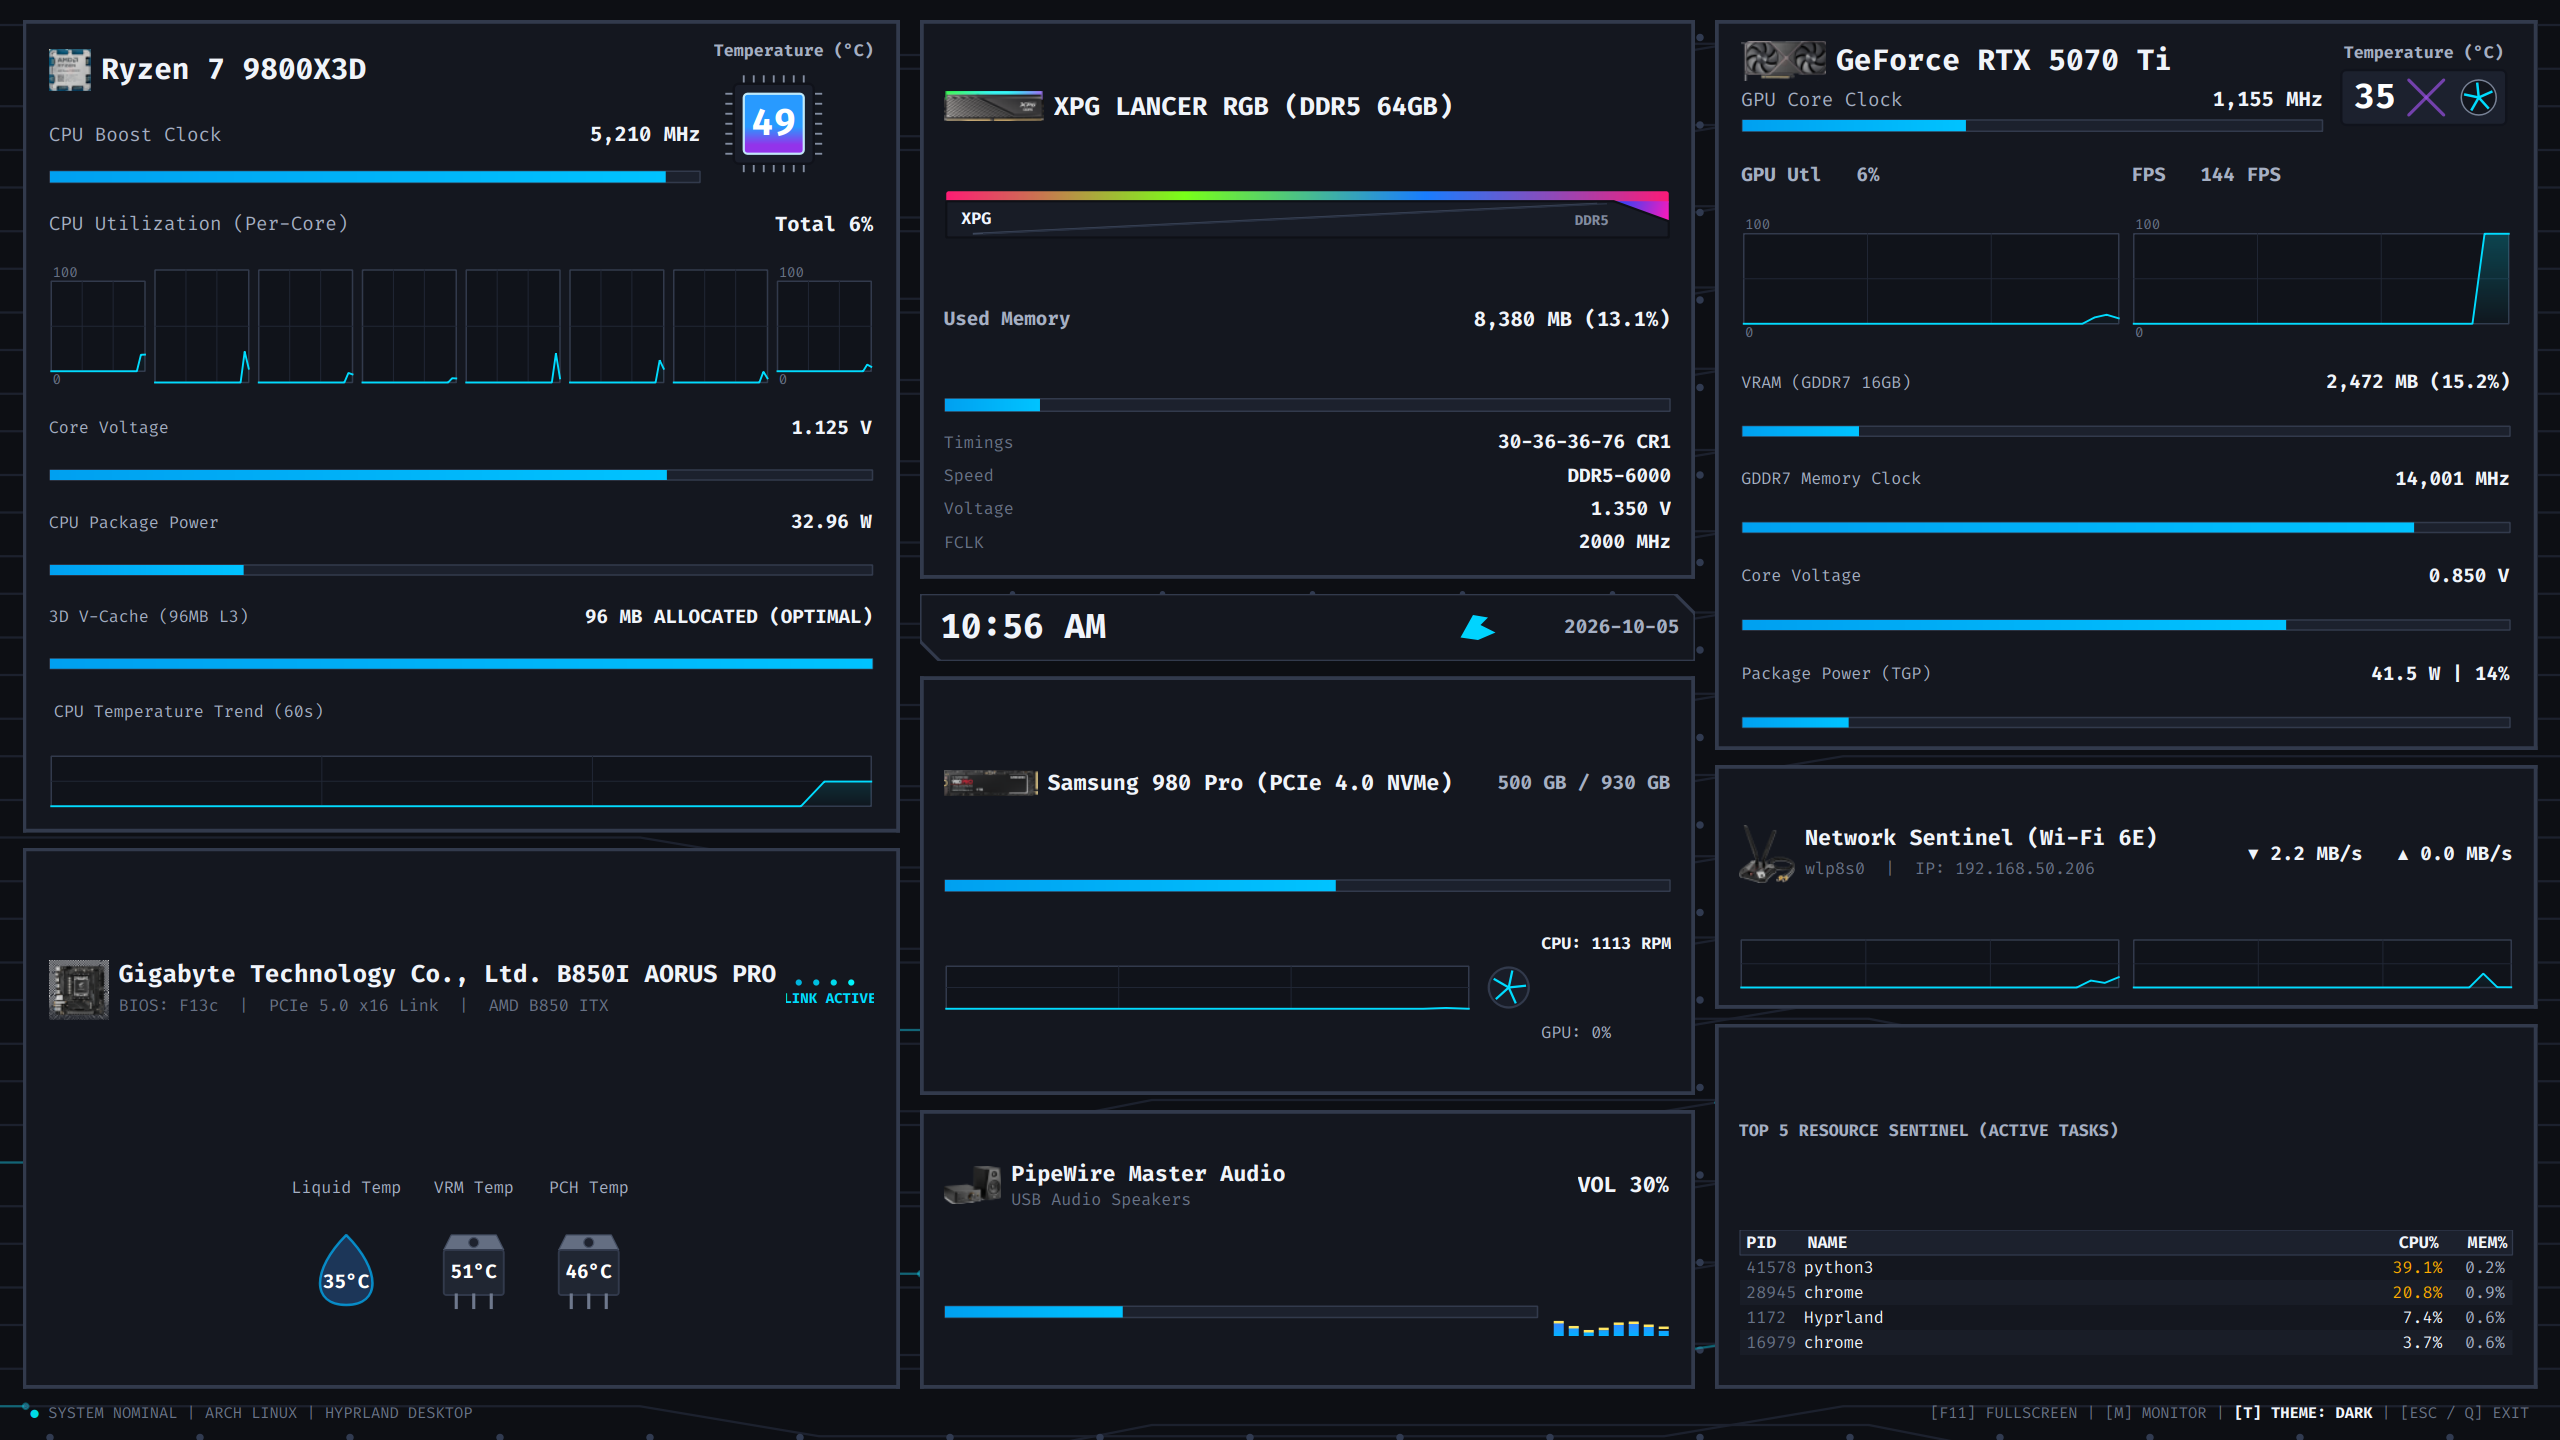
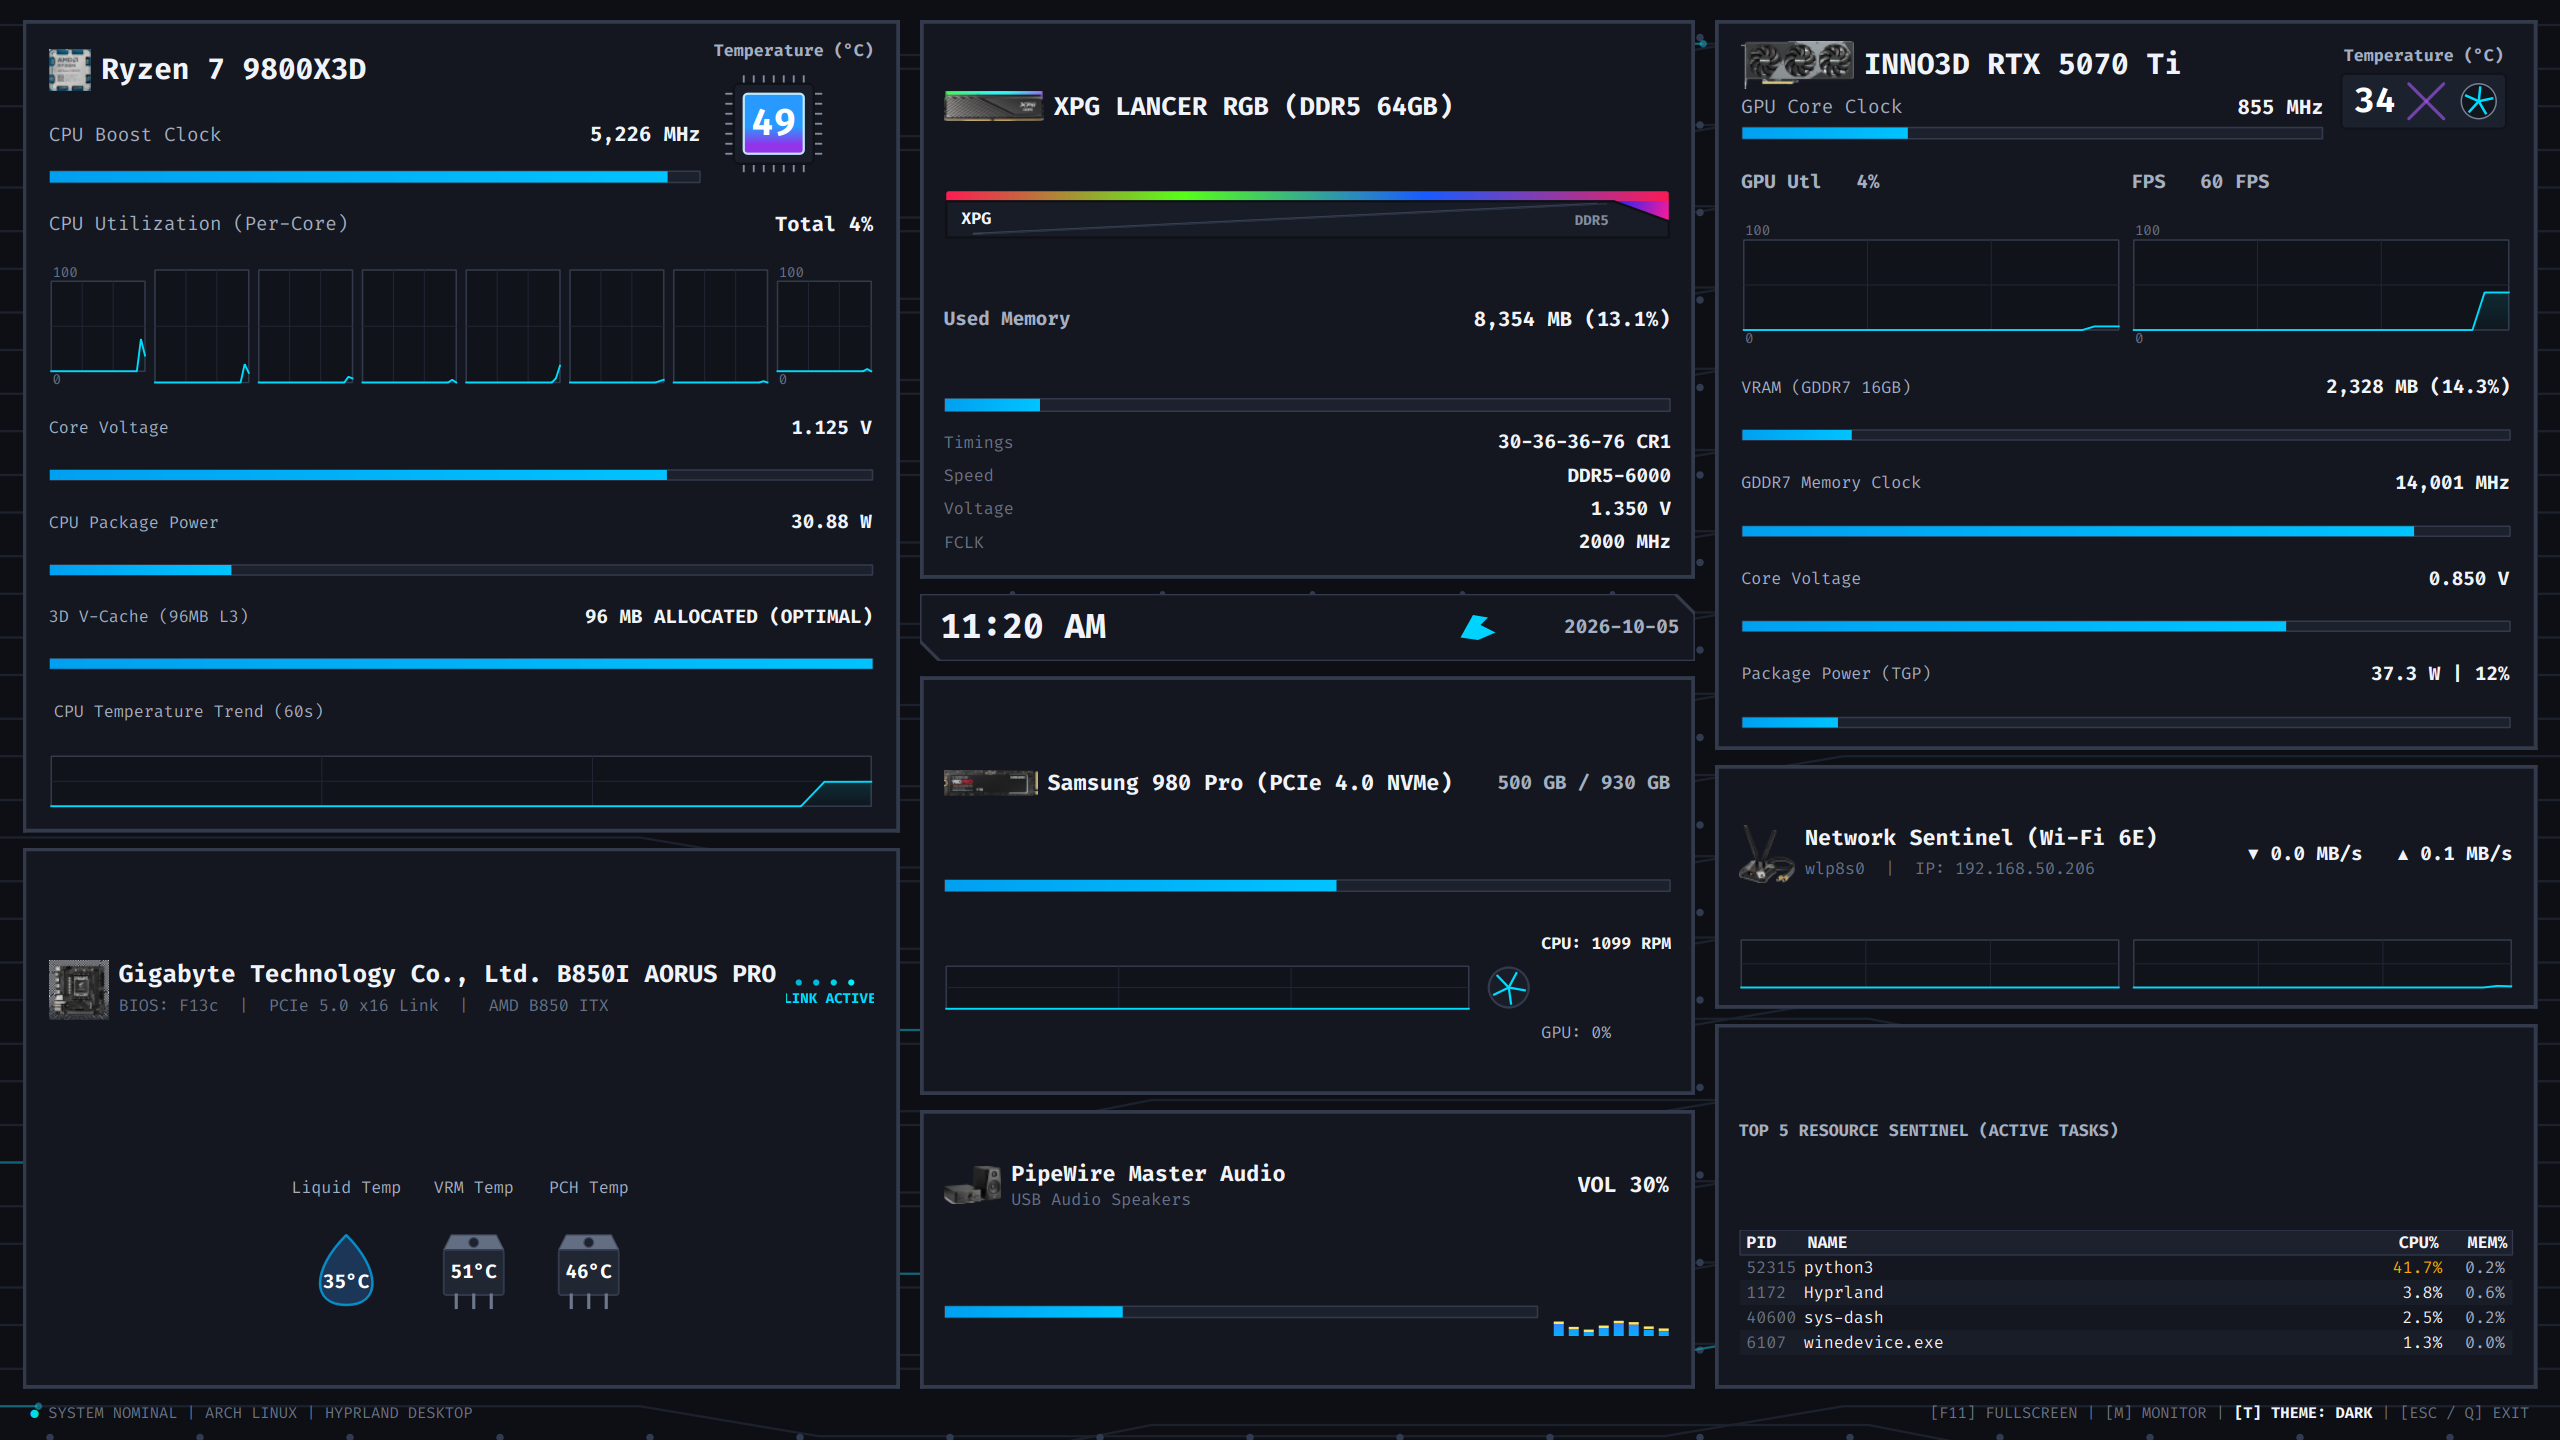
feat: GPU 실물 사진을 INNO3D GeForce RTX 5070 Ti X3 공식 제품 사진으로 변경 및 타이틀 최적화
- PCI 서브시스템(1771:205c) 기반 실제 장착 모델인 INNO3D RTX 5070 Ti X3 식별
- 정밀 투명 누끼 PNG 에셋 추출 및 92x38 고해상도 확대 적용
- GPU 패널 타이틀을 INNO3D RTX 5070 Ti로 브랜드 동기화
- 단일 바이너리(dist/sys-dash) 및 GEMINI.md 명세 동기화

diff --git a/widgets/pcb_gpu_section.py b/widgets/pcb_gpu_section.py
@@ -58,11 +58,11 @@ class PcbGpuSection(QWidget):
         gpu_photo_path = get_resource_path("assets/gpu_photo.png")
         if os.path.exists(gpu_photo_path):
             self.gpu_img_lbl = QLabel()
-            pix_gpu = QPixmap(gpu_photo_path).scaled(68, 32, Qt.AspectRatioMode.KeepAspectRatio, Qt.TransformationMode.SmoothTransformation)
+            pix_gpu = QPixmap(gpu_photo_path).scaled(92, 38, Qt.AspectRatioMode.KeepAspectRatio, Qt.TransformationMode.SmoothTransformation)
             self.gpu_img_lbl.setPixmap(pix_gpu)
             title_h.addWidget(self.gpu_img_lbl)
 
-        self.gpu_title_lbl = QLabel("GeForce RTX 5070 Ti")
+        self.gpu_title_lbl = QLabel("INNO3D RTX 5070 Ti")
         self.gpu_title_lbl.setFont(get_font_bold(17))
         title_h.addWidget(self.gpu_title_lbl)
         title_h.addStretch()

diff --git a/GEMINI.md b/GEMINI.md
@@ -8,7 +8,7 @@
 ## 1. 하드웨어 및 시스템 사양
 
 - **CPU**: AMD Ryzen 7 9800X3D (8-Core / 16-Thread, 부스트 최대 ~5.2GHz, 96MB 3D V-Cache)
-- **GPU**: NVIDIA GeForce RTX 5070 Ti 16GB GDDR7 (Blackwell GB203 아키텍처, 300W TGP)
+- **GPU**: INNO3D GeForce RTX 5070 Ti X3 16GB GDDR7 (Blackwell GB203 아키텍처, 300W TGP, 3팬 메탈릭 슈라우드)
 - **Motherboard**: GIGABYTE B850I AORUS PRO (AMD B850 칩셋 ITX, BIOS: F13c, PCIe 5.0 x16 Link)
 - **Audio System**: PipeWire Master Audio Engine / WirePlumber (`USB Audio Speakers`, 실시간 음량 바 & 대형 볼륨 수치 + 8밴드 점핑 VU 미터)
 - **RAM**: DDR5 64GB (ADATA XPG LANCER RGB 듀얼 채널, 실시간 오로라 무지개 웨이브)
@@ -47,7 +47,7 @@
 
 2. **실물 하드웨어 포토 배지 (확대 규격 인라인 에셋 7종)**:
    - **CPU**: `assets/cpu_photo.png` (9800X3D 정면 칩셋 투명 누끼, 34x34)
-   - **GPU**: `assets/gpu_photo.png` (RTX 5070 Ti 파운더스 카드 투명 누끼, 68x32)
+   - **GPU**: `assets/gpu_photo.png` (INNO3D RTX 5070 Ti X3 실물 트리플 팬 투명 누끼, **92x38 확대**)
    - **RAM**: `assets/ram_photo.png` (XPG LANCER RGB 방열판 투명 누끼, 80x24)
    - **SSD**: `assets/ssd_photo.png` (Samsung 980 Pro M.2 스틱 투명 누끼, 75x21)
    - **Motherboard**: `assets/mobo_photo.png` (GIGABYTE B850I AORUS PRO 실물 ITX 보드, **48x48 확대**)
@@ -86,7 +86,7 @@
 
 5. **GPU & 네트워크 섹션 (우측 컬럼)**:
    - **패널 1: GPU 전용 독립 패널 (`gpu_frame`)**:
-     - 실물 RTX 5070 Ti 사진 + `GeForce RTX 5070 Ti` 헤더 및 코어 클럭(최대 2550MHz) 바.
+     - 실물 INNO3D X3 사진 + `INNO3D RTX 5070 Ti` 헤더 및 코어 클럭(최대 2550MHz) 바.
      - **GPU Utl & FPS 듀얼 오실로스코프 그래프** (실시간 부하율 및 144Hz 프레임레이트).
      - 우측 상단 **그래픽카드 배지** (회전 쿨링 팬 + X자형 네온 RGB 브리딩 글로우 + 대형 흰색 온도 `36°C`).
      - `VRAM (GDDR7 16GB)`, `GDDR7 Memory Clock (14,001 MHz)`, `Core Voltage`, `Package Power (TGP 300W Cap)`.
@@ -123,7 +123,7 @@
 ├── .venv/                      # Python 가상환경
 ├── assets/                     # 실물 하드웨어 투명 누끼 PNG 사진 에셋 (7종)
 │   ├── cpu_photo.png           # AMD Ryzen 7 9800X3D 정면 실물 칩셋 (34x34)
-│   ├── gpu_photo.png           # NVIDIA GeForce RTX 5070 Ti 실물 그래픽카드 (68x32)
+│   ├── gpu_photo.png           # INNO3D GeForce RTX 5070 Ti X3 실물 그래픽카드 (92x38 확대)
 │   ├── ram_photo.png           # ADATA XPG LANCER RGB DDR5 실물 램 스틱 (80x24)
 │   ├── ssd_photo.png           # Samsung 980 PRO PCIe 4.0 NVMe M.2 실물 스틱 (75x21)
 │   ├── mobo_photo.png          # GIGABYTE B850I AORUS PRO ITX 메인보드 실물 (48x48)
